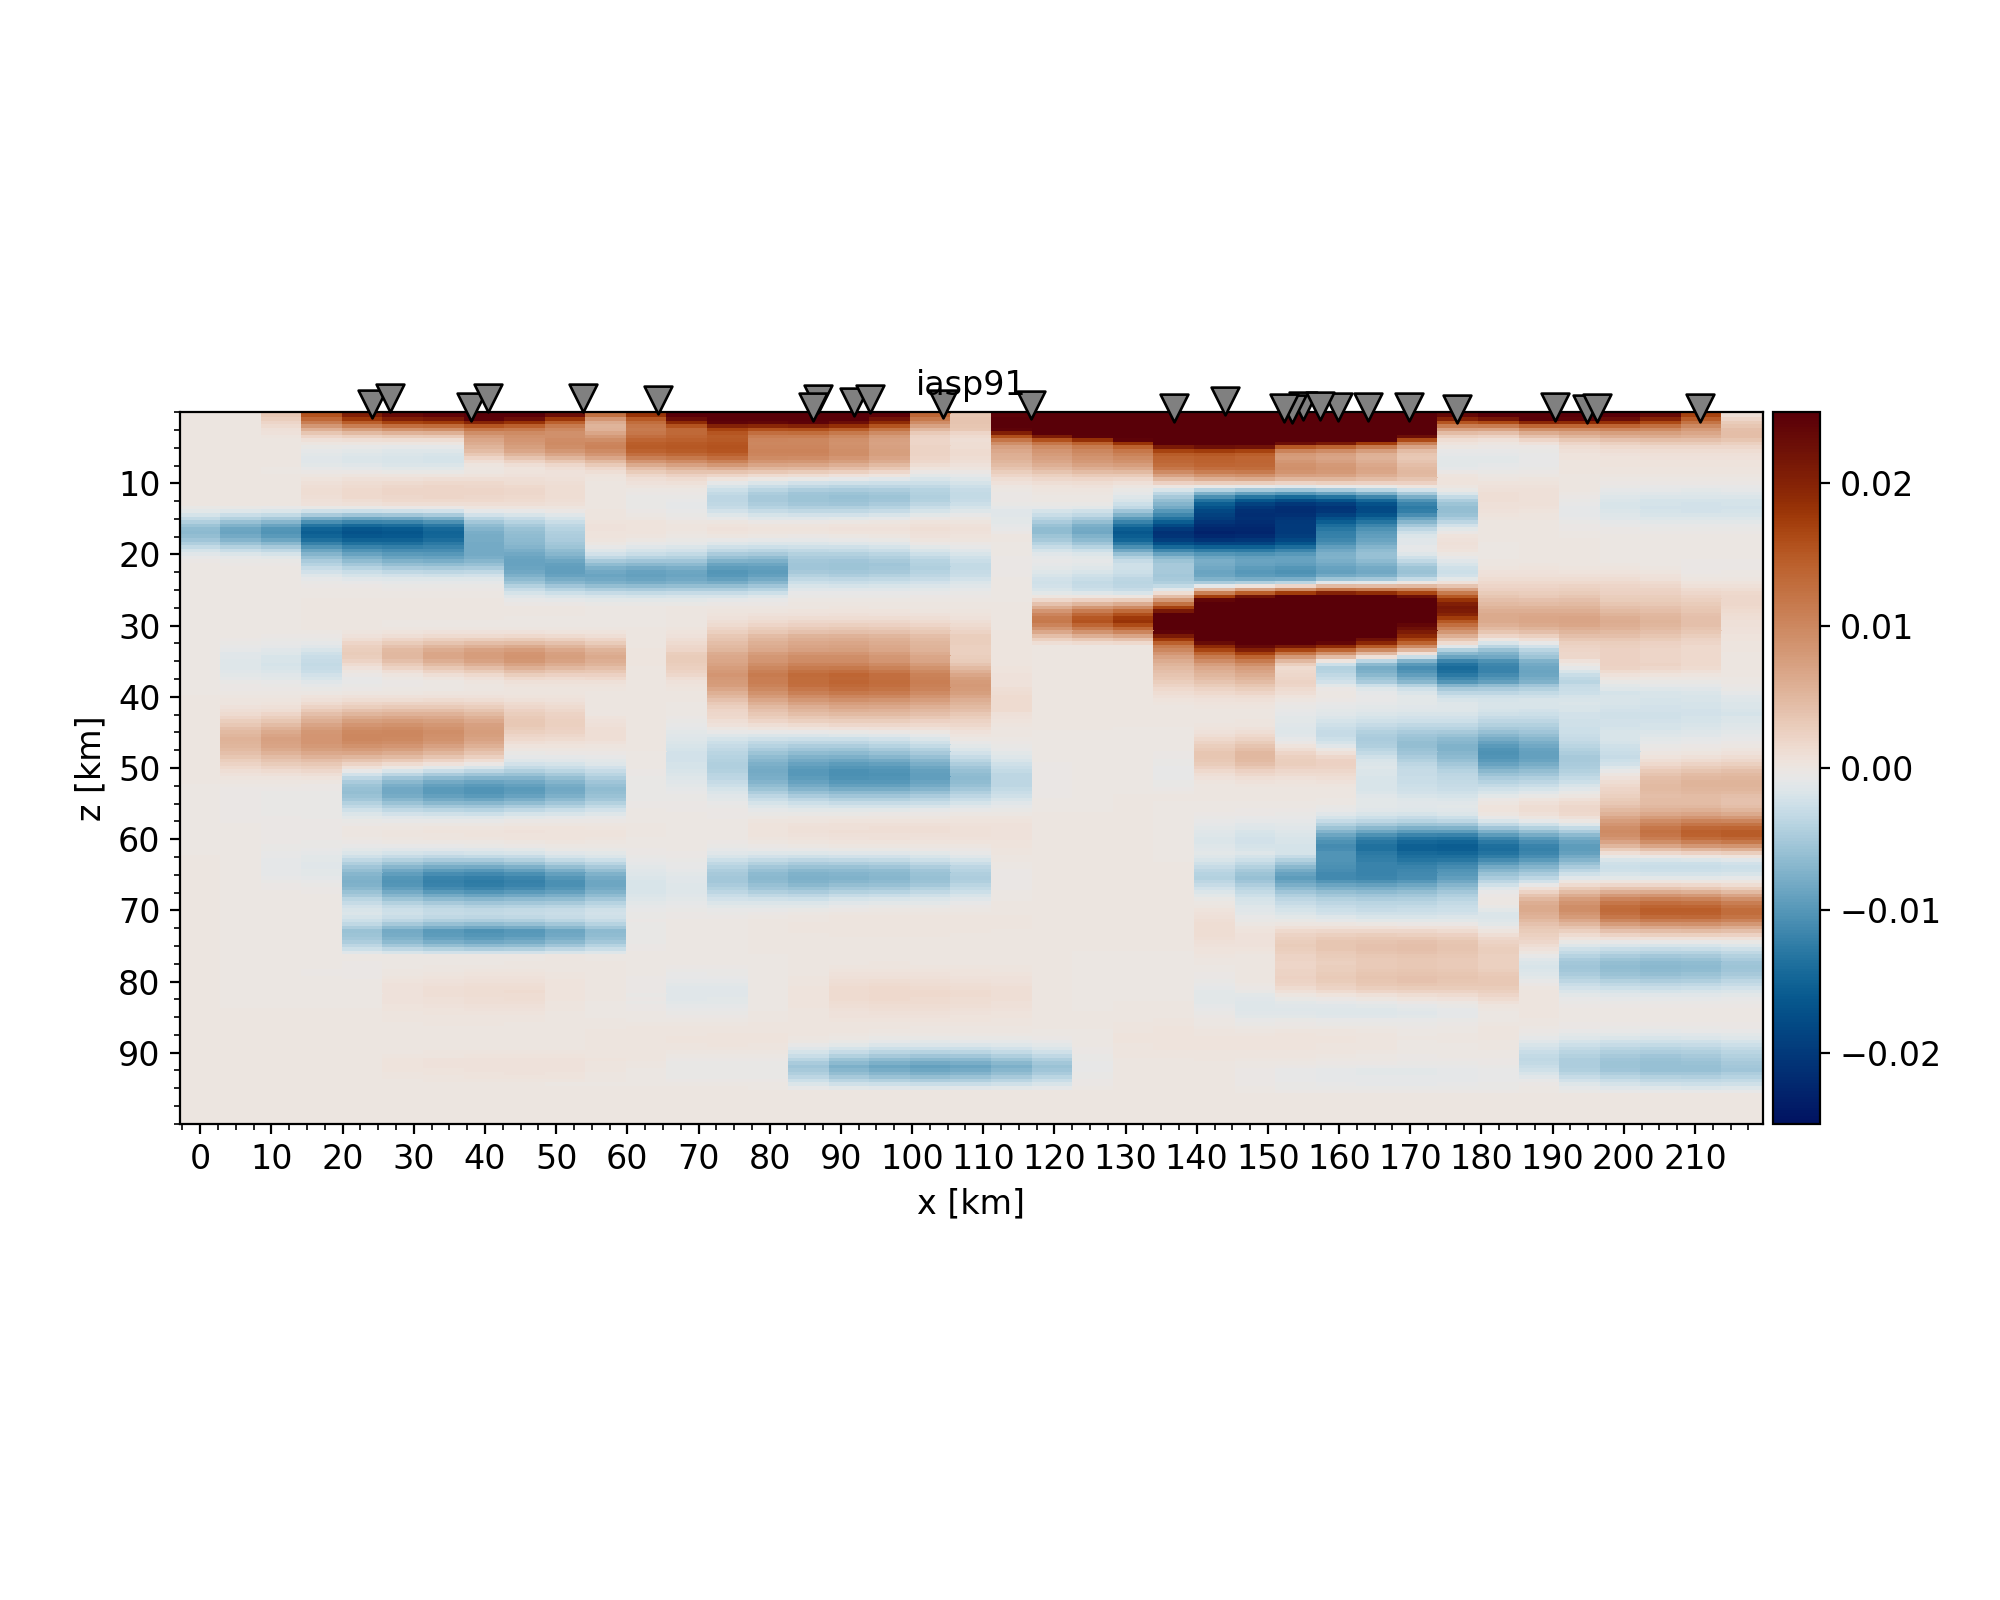
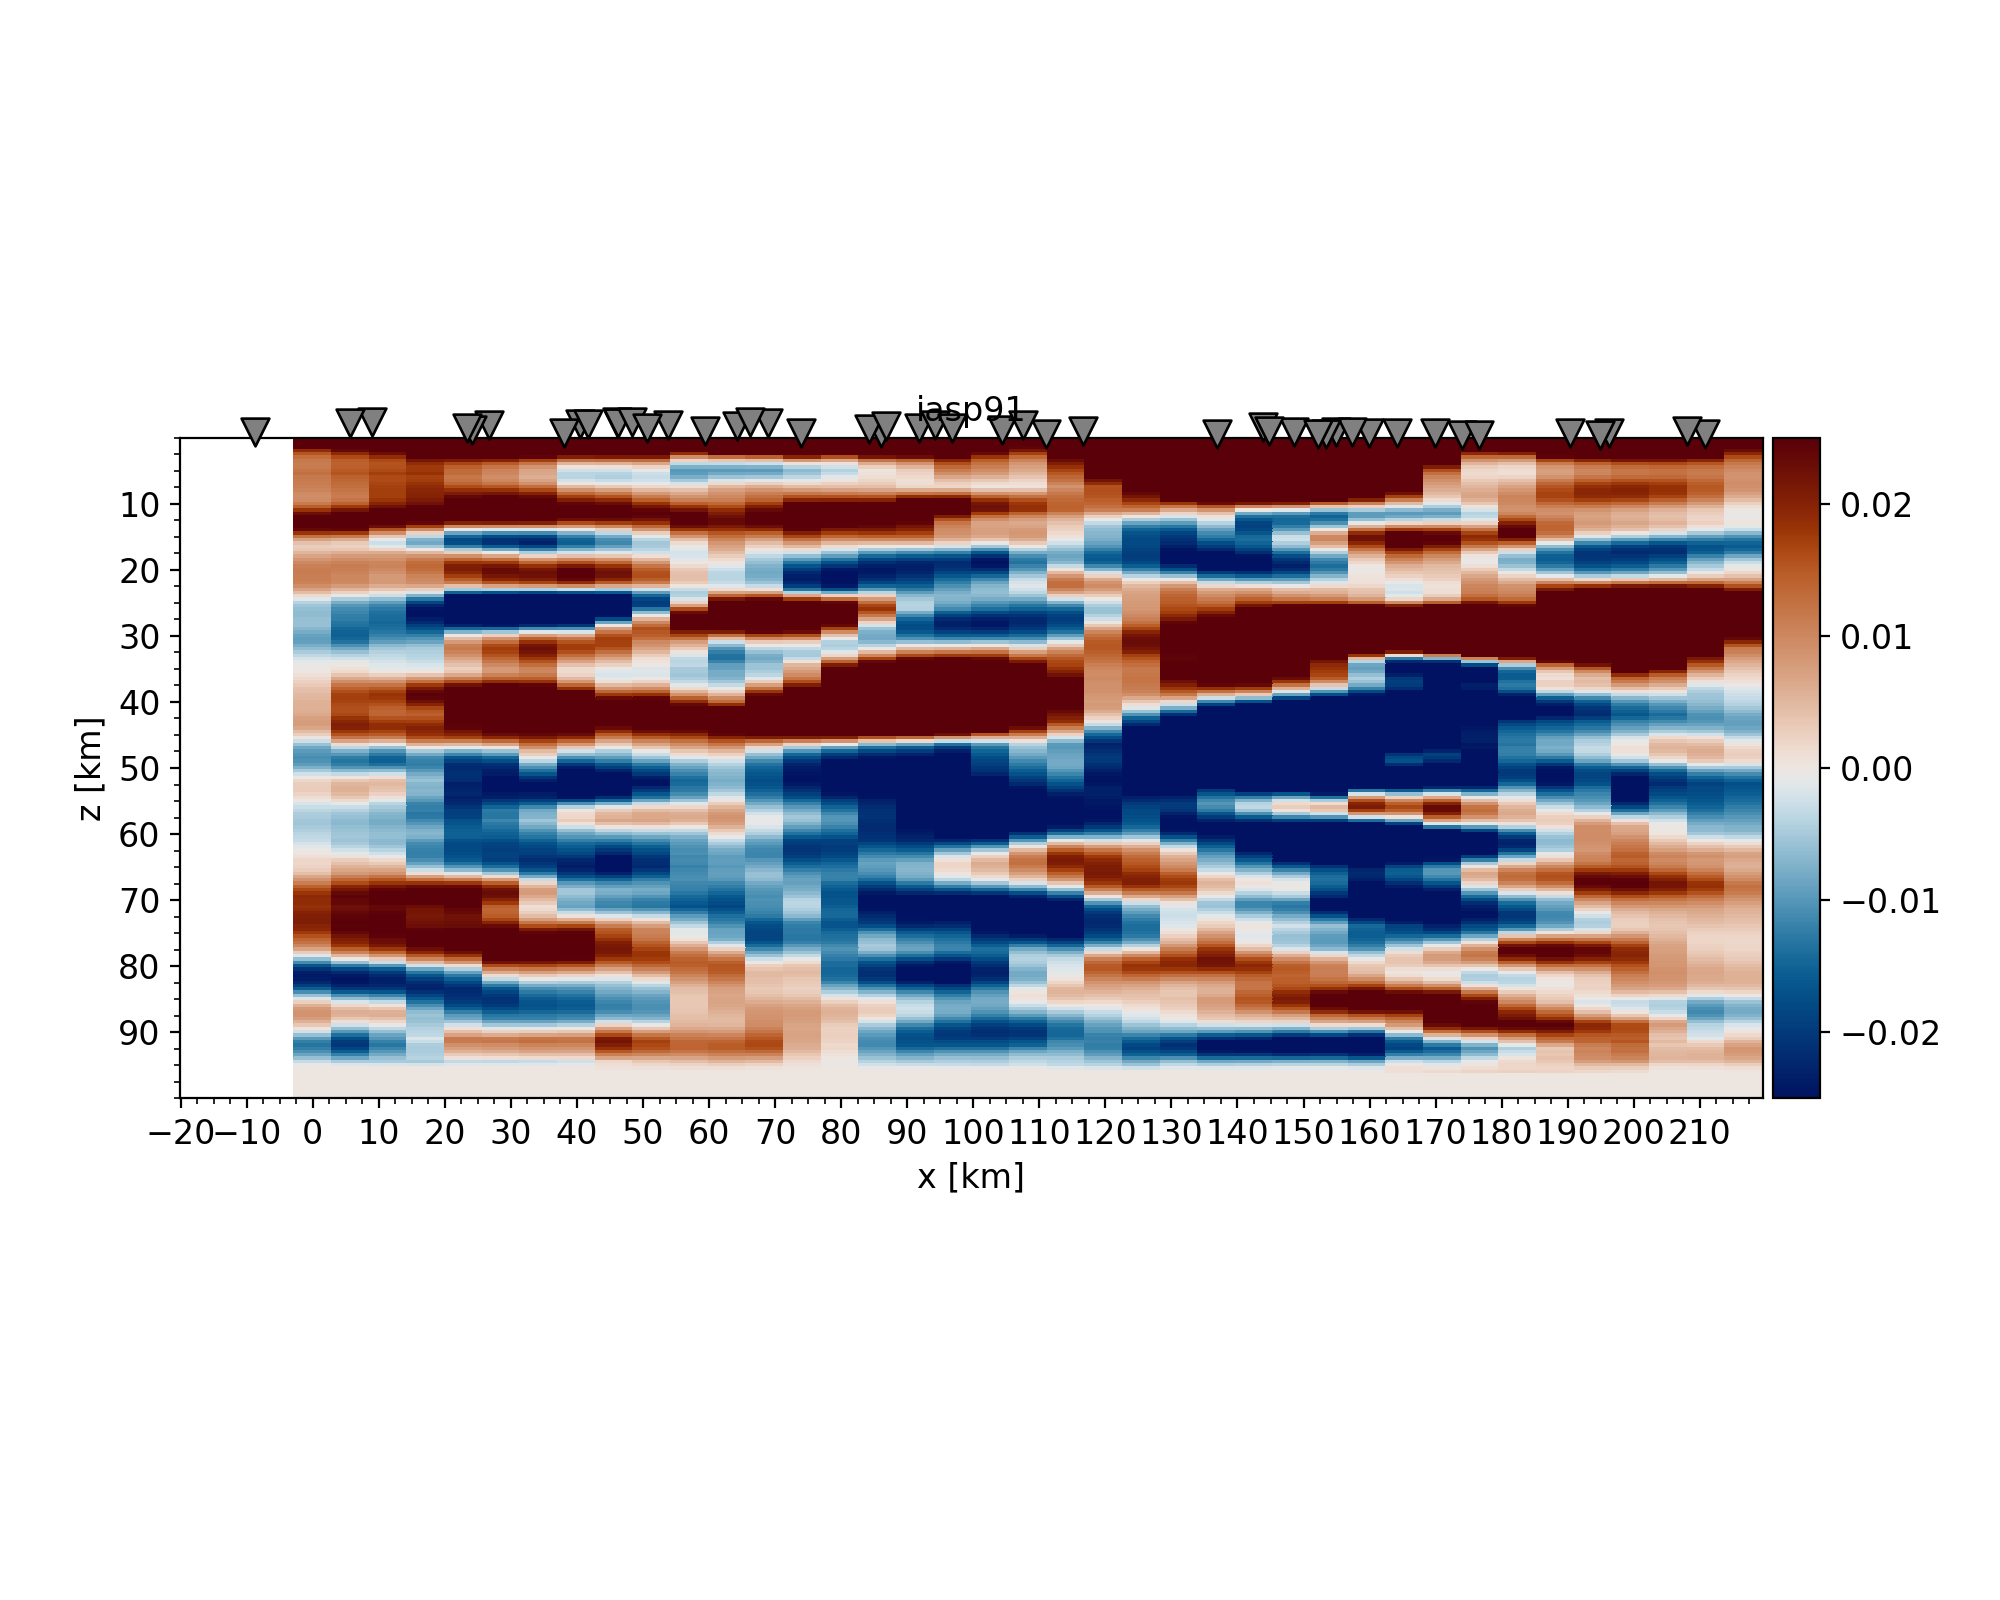
working on epcrust vs iasp plot

diff --git a/rfmpy/run_examples/compute_RF_migration_spher.py b/rfmpy/run_examples/compute_RF_migration_spher.py
@@ -39,6 +39,7 @@ else:
 # Define paths
 work_dir = os.getcwd()
 path = work_dir + "/data/RF/RF/"
+path = desktop_dir + "/RF_test/RF/"
 # path='/media/kmichailos/SEISMIC_DATA/RF_calculations/RF/'
 # path='/media/kmichailos/SEISMIC_DATA/RF_calculations/RF_low_quality/'
 #################
@@ -155,9 +156,45 @@ G2_, sta, xx, zz = plot_migration_sphr.create_2d_profile(mObs, m_params, profile
 ################
 # Smoothing    #
 ################
-G2 = rf_mig.ccp_smooth(G2_, m_params)
+# G2 = rf_mig.ccp_smooth(G2_, m_params)
+def ccp_smooth(G2, migration_param_dict):
+    minx = migration_param_dict['minx']
+    maxx = migration_param_dict['maxx']
+    pasx = migration_param_dict['pasx']
+    miny = migration_param_dict['miny']
+    maxy = migration_param_dict['maxy']
+    pasy = migration_param_dict['pasy']
+    minz = migration_param_dict['minz']
+    maxz = migration_param_dict['maxz']
+    pasz = migration_param_dict['pasz']
+    inc = migration_param_dict['inc']
+    zmax = migration_param_dict['zmax']
 
-# G2 = ccp_smooth(G2_, m_params)
+    zz = np.arange(minz, maxz + pasz, pasz)
+    zbegin_lisse = -2
+    # pasx is in degrees so we modify the line below
+    l0 = 1
+    l0 = .1/111.11
+    # dl = 1000000
+    dl = 1000000
+    with np.errstate(divide="warn"):
+        G3 = G2
+        for iz in range(G2.shape[1]):
+            if zz[iz] < zbegin_lisse:
+                G3[:, iz] = G2[:, iz]
+            else:
+                sigmal = (zz[iz] / dl + l0) / pasx
+                # sigmal = (l0) / pasx
+                print(sigmal)
+                nbml = G2.shape[0]
+                mm = int(np.round(nbml / 2))
+                C = (1 / (sigmal * np.sqrt(2 * np.pi)) * np.exp(-0.5 * np.square(np.arange(nbml) - mm) / (sigmal * sigmal))           )
+                C = C / np.sum(C)
+                temp = np.convolve(G2[:, iz], C)
+                G3[:, iz] = temp[mm : mm + G2.shape[0]]
+    return G3
+
+G2 = ccp_smooth(G2_, m_params)
 # G2[np.abs(G2) < np.max(np.abs(G2)) * 15 / 100] = 0
 G2 = rf_mig.ccpFilter(G2)
 

diff --git a/rfmpy/core/migration_sphr.py b/rfmpy/core/migration_sphr.py
@@ -756,7 +756,7 @@ def ccp_smooth(G2, migration_param_dict):
 
     zbegin_lisse = -2
     # pasx is in degrees so we modify the line below
-    # l0 = 1
+    l0 = 1
     l0 = 1./111.11
     dl = 1000000
     # dl = 100
@@ -767,9 +767,12 @@ def ccp_smooth(G2, migration_param_dict):
             if zz[iz] < zbegin_lisse:
                 G3[:, iz] = G2[:, iz]
             else:
-                # sigmal = (zz[iz] / dl + l0) / pasx
+                # sigmal = (zz[iz] / dl + l0) / (pasx *111)
                 sigmal = (l0) / pasx
+                print(sigmal)
+
                 nbml = G2.shape[0]
+
                 mm = int(np.round(nbml / 2))
                 C = (
                     1

diff --git a/build/lib/rfmpy/core/migration_sphr.py b/build/lib/rfmpy/core/migration_sphr.py
@@ -757,7 +757,7 @@ def ccp_smooth(G2, migration_param_dict):
     zbegin_lisse = -2
     # pasx is in degrees so we modify the line below
     # l0 = 1
-    l0 = 1./111.11
+    l0 = .5/111.11
     dl = 1000000
     # dl = 100
 
